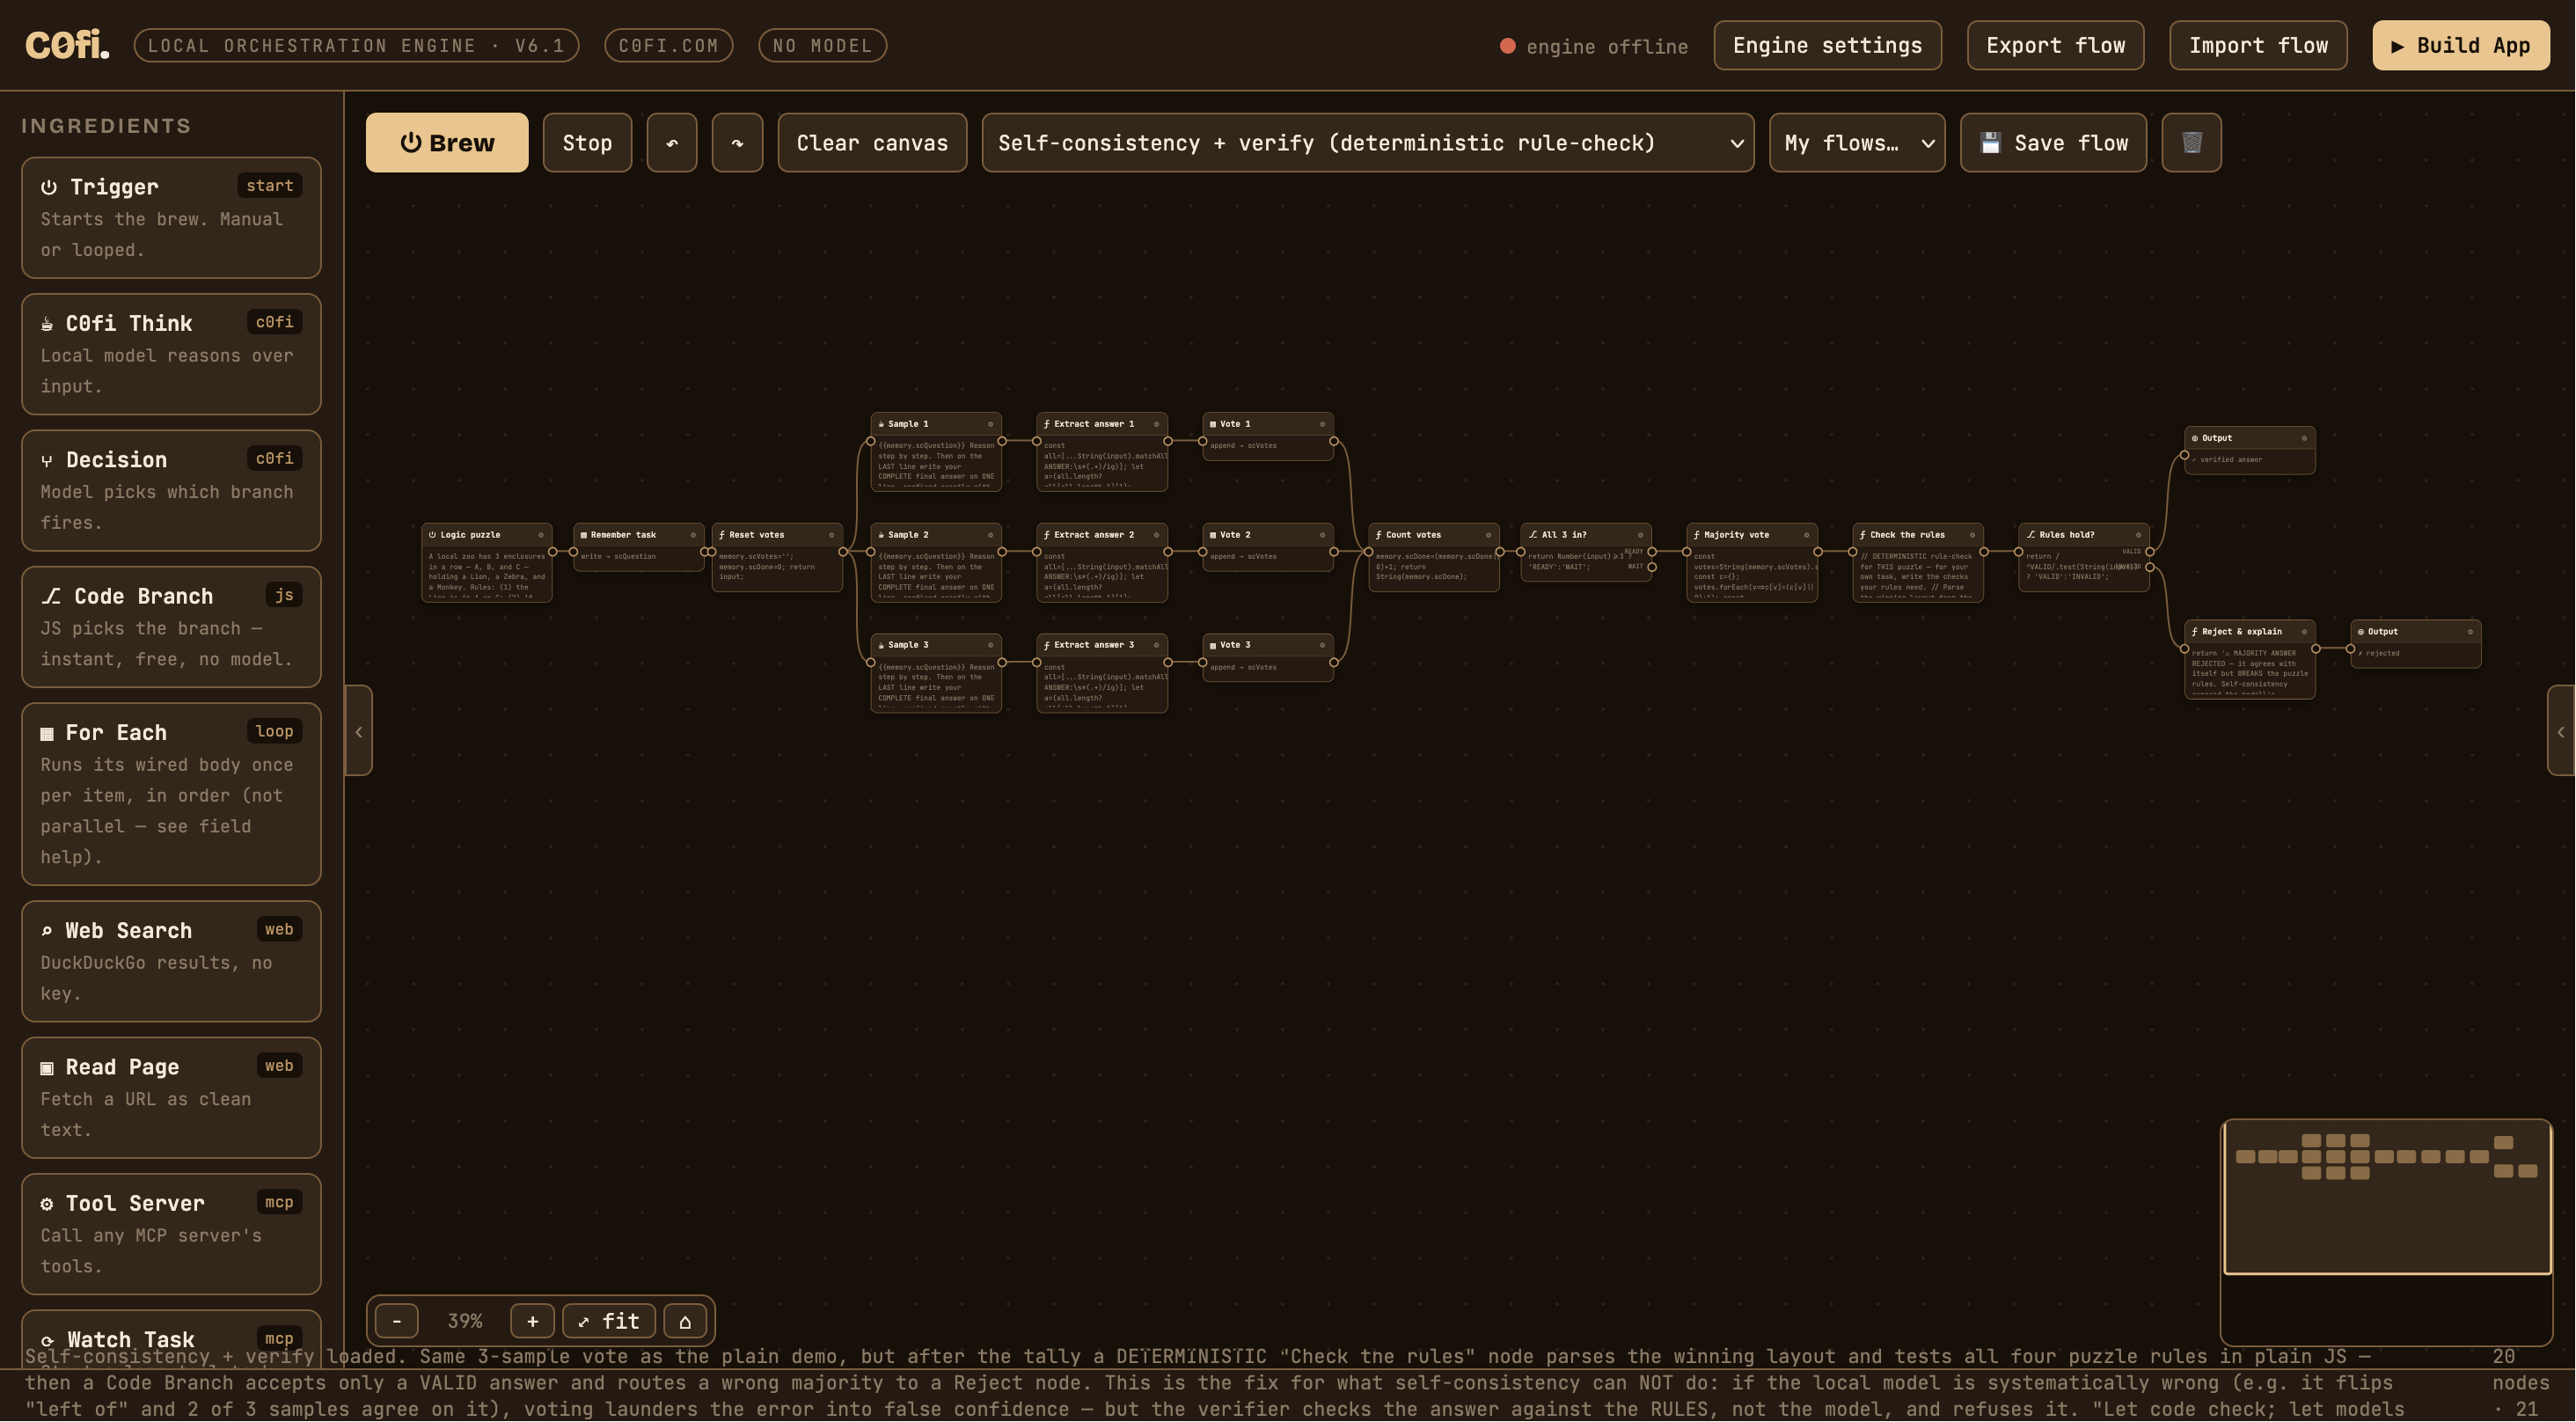
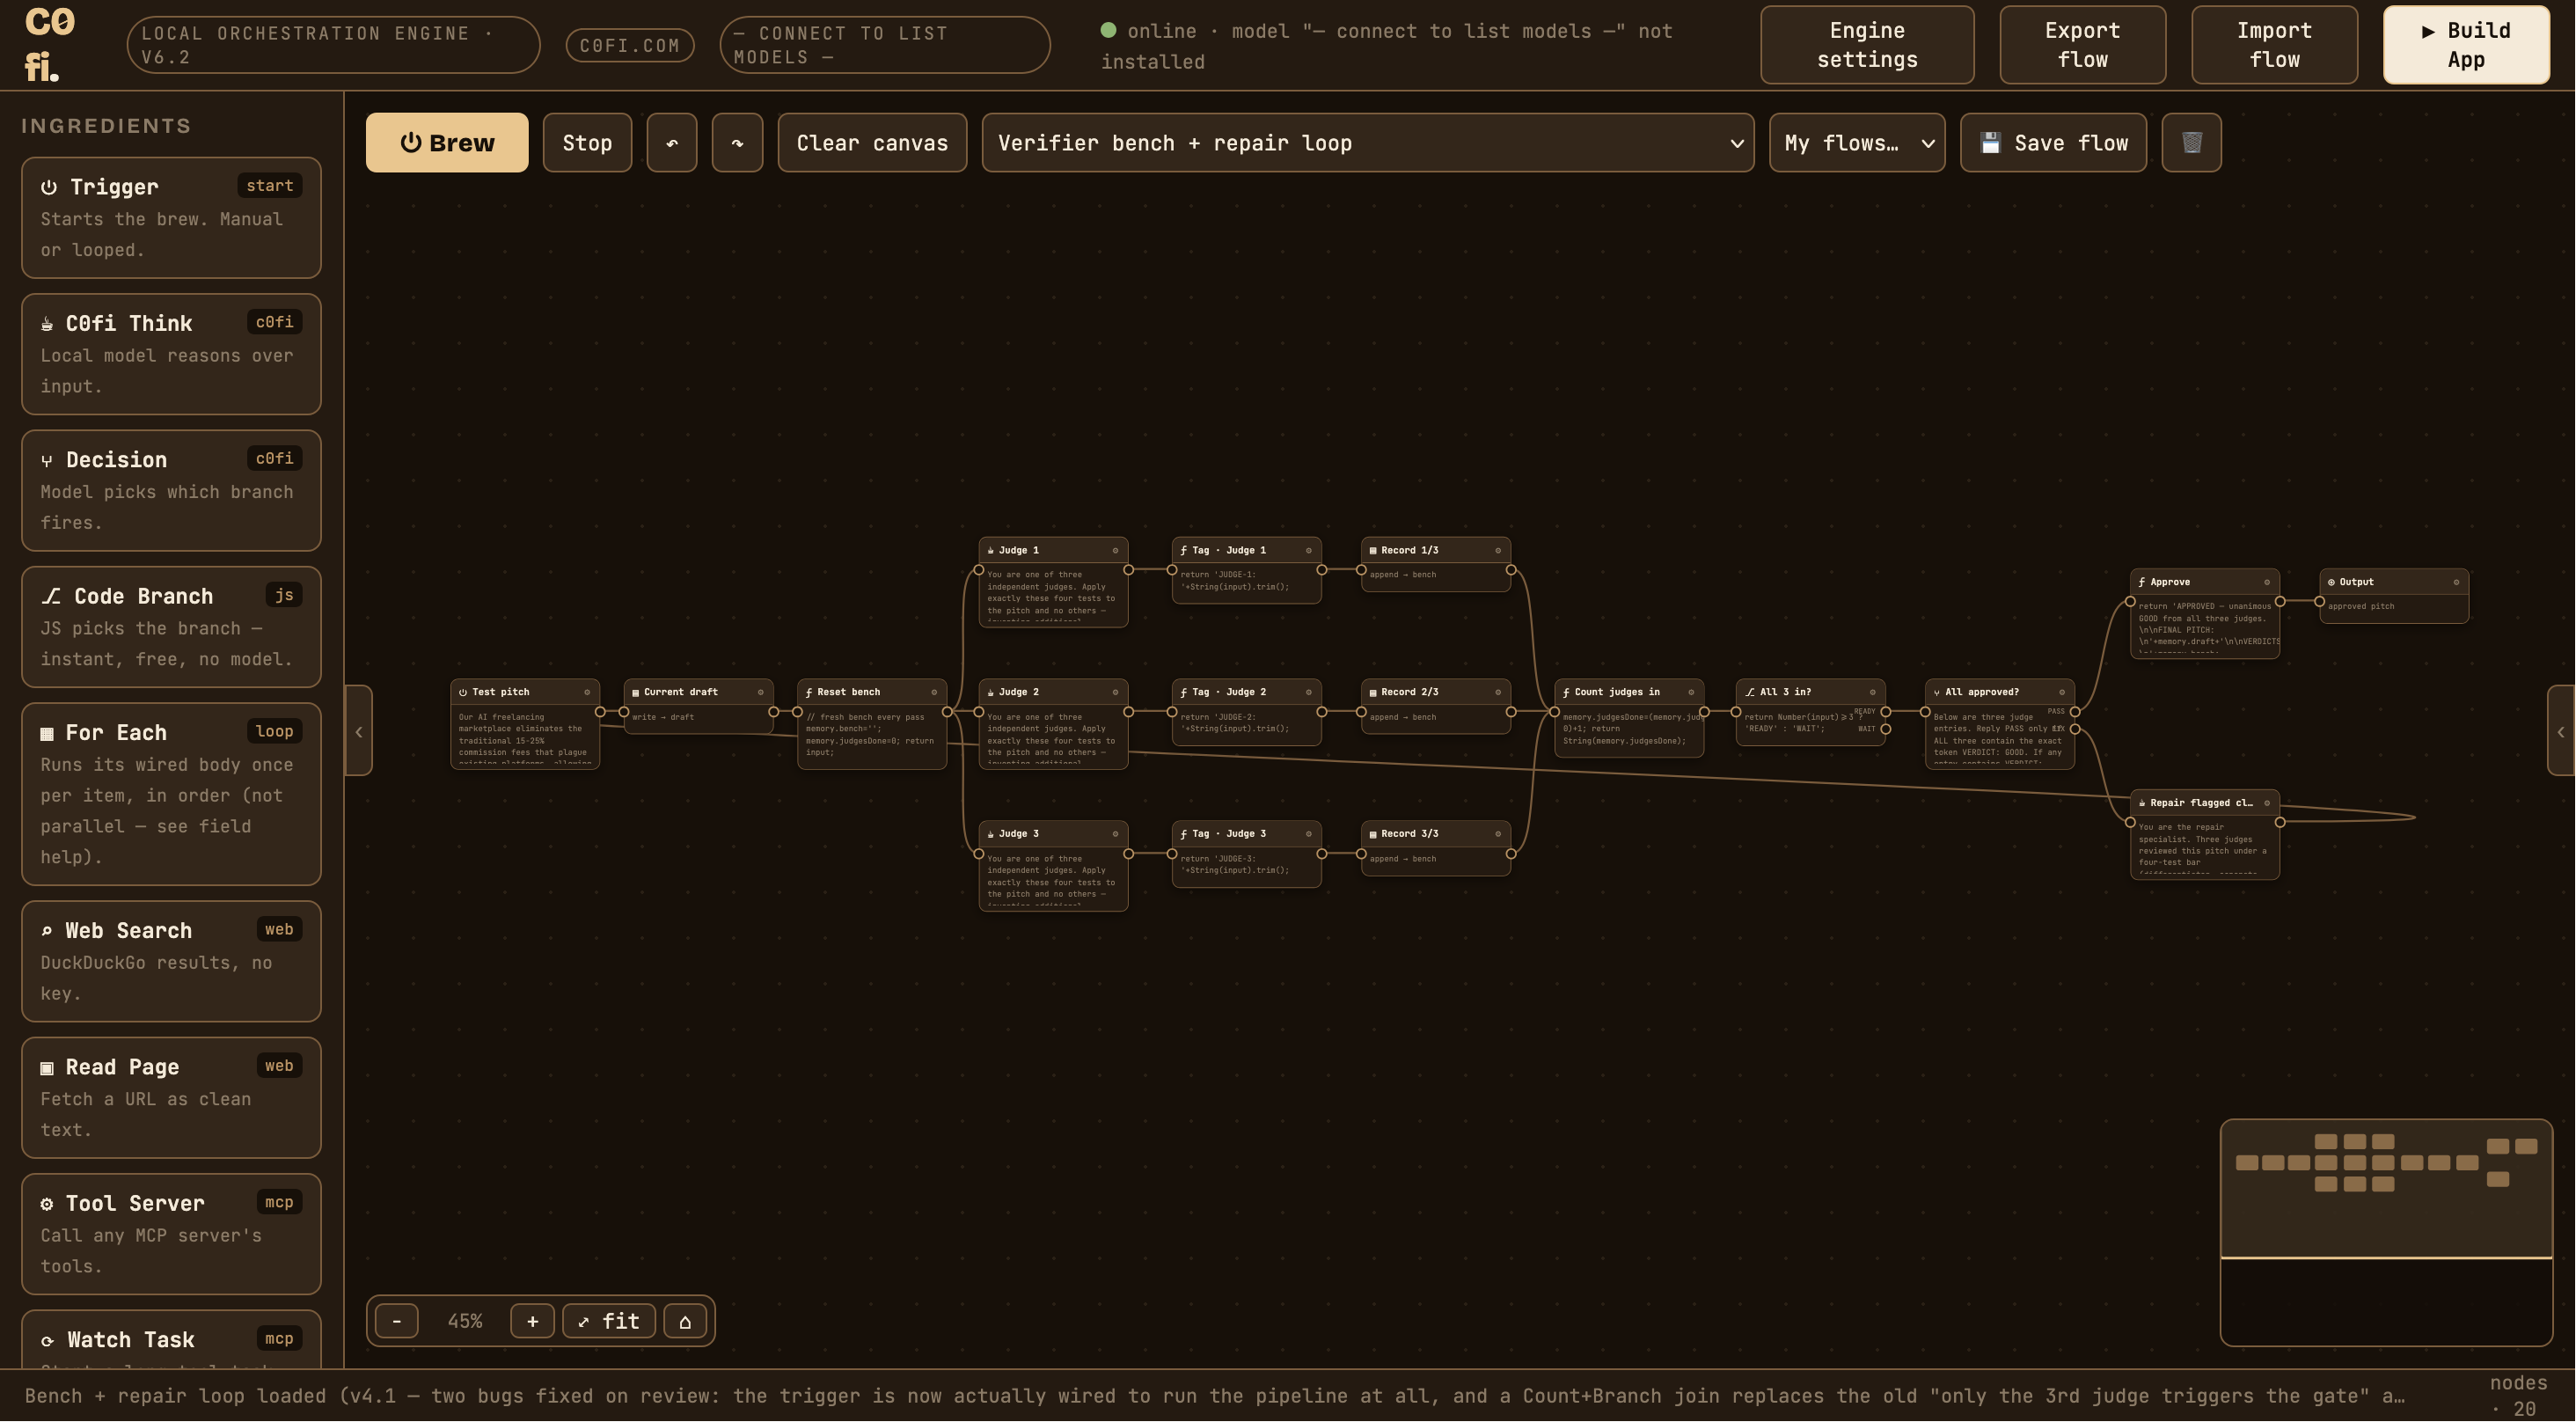
docs: refresh README screenshots — connected engine, no bottom overflow
Swap in v6.2 canvas + full-flow shots (green online dot, clean status
bar) replacing the old v6.1 offline/overflowing captures. Update captions
to match the pictured 'Verifier bench + repair loop' demo.

Claude-Session: https://claude.ai/code/session_0175FUUivLeiLCAXBjRESm1g

diff --git a/README.md b/README.md
@@ -2,7 +2,7 @@
 
 **Single-file visual workflow builder where your local LLM builds, wires, and runs the flows — n8n-style canvas, 100% on your machine via Ollama.**
 
-![C0fi — the self-consistency + verify demo on the canvas, with the C0fi Orchestrator panel that builds and edits flows from plain language](docs/screenshot.png)
+![C0fi — the "Verifier bench + repair loop" demo on the canvas, with the C0fi Orchestrator panel that builds and edits flows from plain language](docs/screenshot.png)
 
 C0fi is in the spirit of n8n, rebuilt around one inversion: the model (via [Ollama](https://ollama.com)) sits in the loop four ways — it **decides** (Decision/Critic nodes), **orchestrates** (a chat panel that sees the whole canvas and rewires it), **creates** (describe a flow in plain language and it builds the nodes and wires), and **builds** (edits, extends, and re-runs flows mid-conversation, including ones you drew by hand).
 
@@ -53,9 +53,9 @@ See the [user guide](c0fi-user-guide-v6.1.html) §2 for the CORS details, the si
 
 Drag them from the palette, or just describe what you want in the Orchestrator and let C0fi wire it.
 
-![A complete flow, end to end: the "self-consistency + verify" demo — a 3-sample vote, a deterministic rule-check, and a reject path, ~20 nodes running entirely on local models](docs/full-flow.png)
+![A complete flow, end to end: the "Verifier bench + repair loop" demo — three independent judges, a count-based barrier gate, a unanimous-approval check, and a repair path, ~20 nodes running entirely on local models](docs/full-flow.png)
 
-*Above: one of the 21 built-in demos — a self-consistency vote whose majority answer is then checked against the rules in deterministic JS, so a confidently-wrong model gets rejected instead of trusted.*
+*Above: one of the 21 built-in demos — three independent judges each apply the same four tests to a draft, a Count+Branch join waits until all three are in, and only a unanimous GOOD clears the gate; anything flagged routes to a repair specialist instead of being trusted.*
 
 ## Build App
 